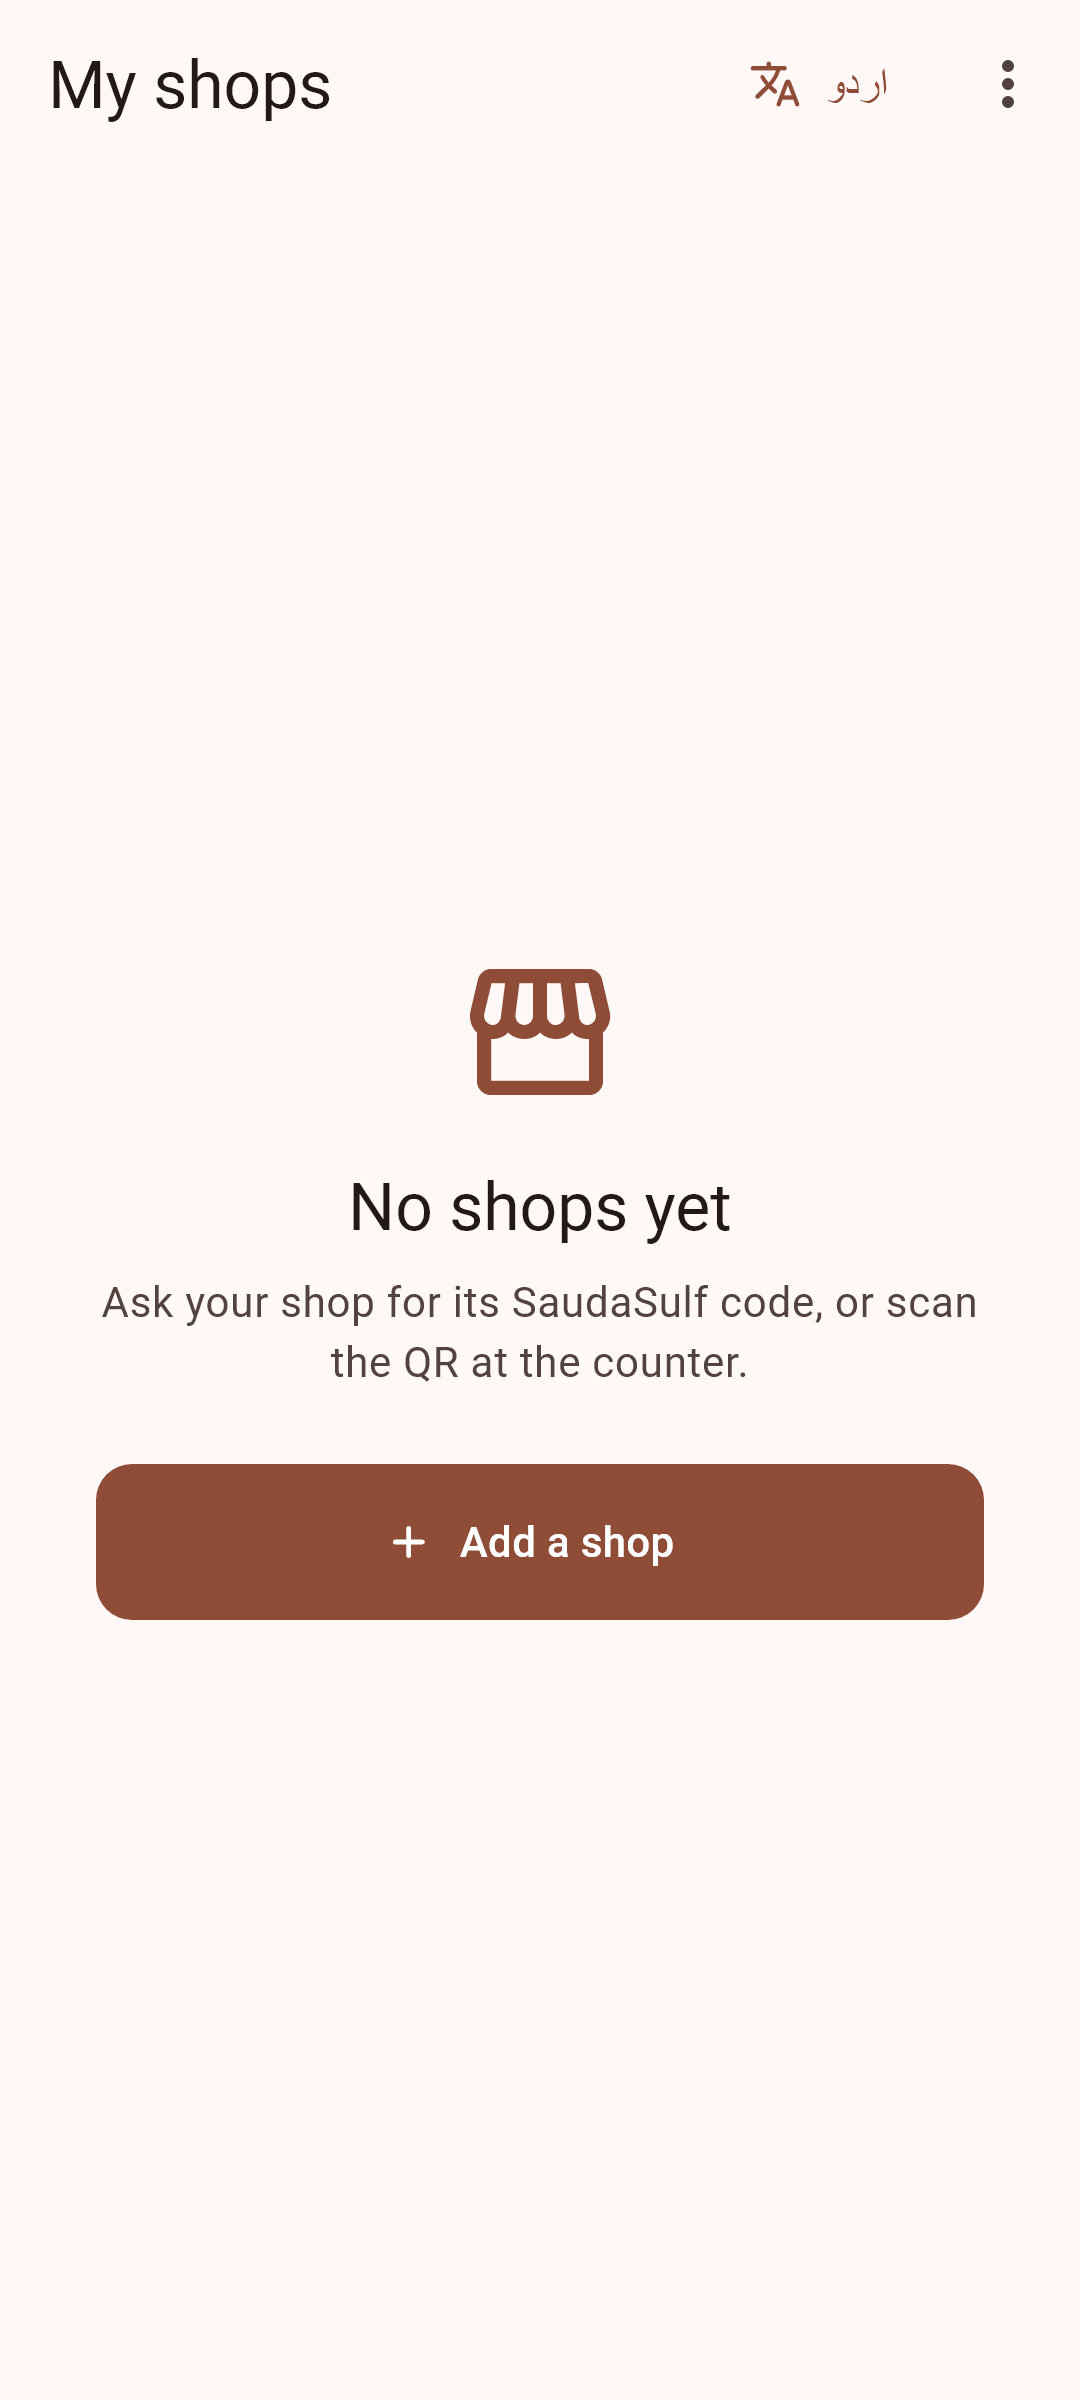
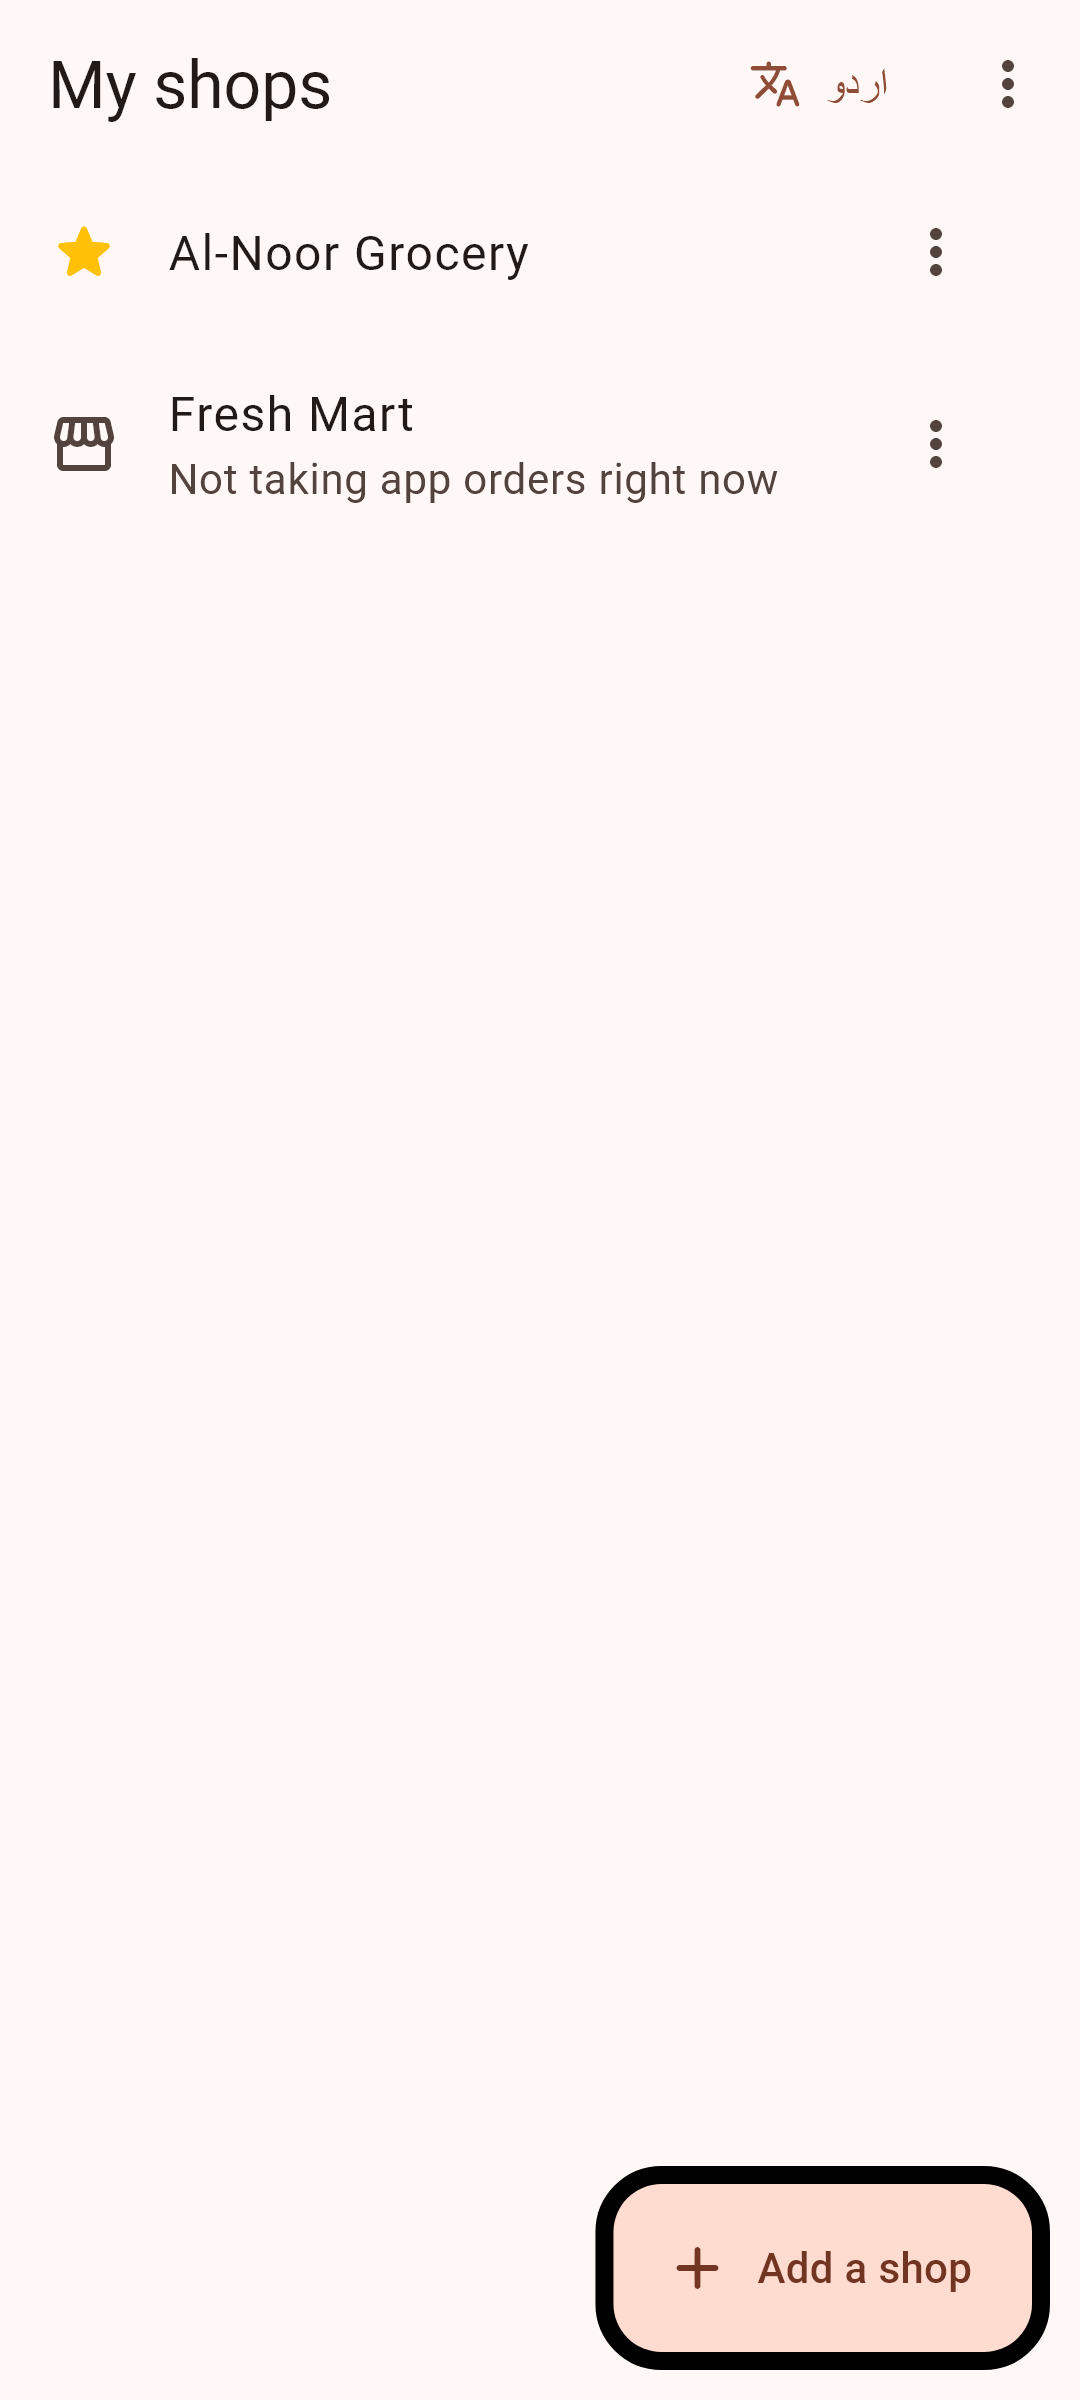
Docs: SaudaSulf sign-up, shop code & QR and app customers screens; status update

diff --git a/site/data/screens/saudasulf-app-customers.js b/site/data/screens/saudasulf-app-customers.js
@@ -1,0 +1,76 @@
+// Generated by G:\saudasulf\tool\docs_capture\capture_test.dart — re-run it instead of editing.
+Docs.screen({
+  "id": "saudasulf-app-customers",
+  "app": "saudasulf",
+  "section": "Shopkeeper",
+  "title": "App customers",
+  "route": "Shop · More tab → App customers",
+  "roles": [
+    "owner",
+    "staff"
+  ],
+  "summary": "People who joined through the shop's code. Call the number to check it is really them, then confirm. Until you confirm, they cannot see anything of the shop's old orders or khata.",
+  "image": "images/saudasulf/app-customers.png",
+  "width": 1080,
+  "height": 2400,
+  "marks": [
+    {
+      "id": "match",
+      "n": 1,
+      "box": [
+        78,
+        684,
+        619,
+        72
+      ],
+      "kind": "info",
+      "label": "Matches a customer",
+      "text": "This number is already one of your customers. Confirm only after you have called and it is them."
+    },
+    {
+      "id": "confirm",
+      "n": 2,
+      "box": [
+        78,
+        768,
+        924,
+        168
+      ],
+      "kind": "action",
+      "label": "Confirm",
+      "text": "It is them: they now see their own orders and khata."
+    },
+    {
+      "id": "notthis",
+      "n": 3,
+      "box": [
+        78,
+        936,
+        924,
+        168
+      ],
+      "kind": "action",
+      "label": "Not this person",
+      "text": "Someone else typed this number. They stay a new customer and see nothing of the old records."
+    },
+    {
+      "id": "block",
+      "n": 4,
+      "box": [
+        78,
+        1104,
+        204,
+        156
+      ],
+      "kind": "action",
+      "label": "Block",
+      "text": "Stops this person from using your shop in the app."
+    }
+  ],
+  "arrows": [
+    {
+      "from": "match",
+      "to": "confirm"
+    }
+  ]
+});

diff --git a/site/data/screens/saudasulf-my-shops.js b/site/data/screens/saudasulf-my-shops.js
@@ -8,32 +8,45 @@ Docs.screen({
   "roles": [
     "customer"
   ],
-  "summary": "The shops this customer added. Empty at first: a shop gives its customers a code or a QR to add it.",
+  "summary": "The shops this customer added, the default one first. A shop gives its customers a code or a QR to add it.",
   "image": "images/saudasulf/my-shops.png",
   "width": 1080,
   "height": 2400,
   "marks": [
     {
-      "id": "empty",
+      "id": "default",
       "n": 1,
       "box": [
-        342,
-        1158,
-        396,
-        96
+        42,
+        210,
+        84,
+        84
       ],
       "kind": "info",
-      "label": "No shops yet",
-      "text": "You only see shops you added yourself. There is no list of other shops."
+      "label": "Default shop",
+      "text": "The star marks the shop you order from first. Long-press or tap the three dots on another shop to make it the default or remove it."
+    },
+    {
+      "id": "shop",
+      "n": 2,
+      "box": [
+        0,
+        330,
+        1092,
+        228
+      ],
+      "kind": "info",
+      "label": "A shop",
+      "text": "Tap a shop to open it. A shop that is not taking orders yet says so."
     },
     {
       "id": "add",
-      "n": 2,
+      "n": 3,
       "box": [
-        90,
-        1458,
-        900,
-        168
+        607,
+        2178,
+        431,
+        180
       ],
       "kind": "action",
       "label": "Add a shop",
@@ -42,7 +55,7 @@ Docs.screen({
     },
     {
       "id": "menu",
-      "n": 3,
+      "n": 4,
       "box": [
         930,
         6,
@@ -56,7 +69,11 @@ Docs.screen({
   ],
   "arrows": [
     {
-      "from": "empty",
+      "from": "default",
+      "to": "shop"
+    },
+    {
+      "from": "shop",
       "to": "add"
     }
   ]

diff --git a/site/data/screens/saudasulf-onboarding.js b/site/data/screens/saudasulf-onboarding.js
@@ -1,0 +1,67 @@
+// Generated by G:\saudasulf\tool\docs_capture\capture_test.dart — re-run it instead of editing.
+Docs.screen({
+  "id": "saudasulf-onboarding",
+  "app": "saudasulf",
+  "section": "Customer",
+  "title": "Your name and phone",
+  "route": "Welcome → I want to order (first time)",
+  "roles": [
+    "customer"
+  ],
+  "summary": "Asked once, the first time. No password and no code by SMS: the shop calls this number to check it is really you.",
+  "image": "images/saudasulf/onboarding.png",
+  "width": 1080,
+  "height": 2400,
+  "marks": [
+    {
+      "id": "name",
+      "n": 1,
+      "box": [
+        66,
+        234,
+        948,
+        180
+      ],
+      "kind": "action",
+      "label": "Your name",
+      "text": "The name the shop will see."
+    },
+    {
+      "id": "phone",
+      "n": 2,
+      "box": [
+        66,
+        450,
+        948,
+        240
+      ],
+      "kind": "action",
+      "label": "Your phone number",
+      "text": "Shops call this number to confirm your orders. Write it like 0300 1234567."
+    },
+    {
+      "id": "continue",
+      "n": 3,
+      "box": [
+        66,
+        750,
+        948,
+        168
+      ],
+      "kind": "action",
+      "label": "Continue",
+      "text": "Opens My shops, where you add the shops you buy from.",
+      "go": "saudasulf-my-shops"
+    }
+  ],
+  "arrows": [
+    {
+      "from": "name",
+      "to": "phone"
+    },
+    {
+      "from": "phone",
+      "to": "continue"
+    }
+  ]
+});

diff --git a/site/data/screens/saudasulf-shop-code.js b/site/data/screens/saudasulf-shop-code.js
@@ -1,0 +1,58 @@
+// Generated by G:\saudasulf\tool\docs_capture\capture_test.dart — re-run it instead of editing.
+Docs.screen({
+  "id": "saudasulf-shop-code",
+  "app": "saudasulf",
+  "section": "Shopkeeper",
+  "title": "Shop code & QR",
+  "route": "Shop · More tab → Shop code & QR",
+  "roles": [
+    "owner",
+    "staff"
+  ],
+  "summary": "The shop's code and QR. Customers scan the QR or type the code to add your shop; Share sends the link on WhatsApp. Only the owner can make a new code.",
+  "image": "images/saudasulf/shop-code.png",
+  "width": 1080,
+  "height": 2400,
+  "marks": [
+    {
+      "id": "qr",
+      "n": 1,
+      "box": [
+        204,
+        270,
+        672,
+        672
+      ],
+      "kind": "info",
+      "label": "QR",
+      "text": "Print it for the counter or a poster. It opens the shop in the app."
+    },
+    {
+      "id": "code",
+      "n": 2,
+      "box": [
+        66,
+        1026,
+        948,
+        144
+      ],
+      "kind": "info",
+      "label": "Code",
+      "text": "The same shop, as 6 letters and numbers to type."
+    },
+    {
+      "id": "share",
+      "n": 3,
+      "box": [
+        66,
+        1410,
+        948,
+        168
+      ],
+      "kind": "action",
+      "label": "Share",
+      "text": "Sends the link and code on WhatsApp."
+    }
+  ],
+  "arrows": []
+});

diff --git a/site/data/pages/saudasulf.js b/site/data/pages/saudasulf.js
@@ -41,9 +41,10 @@ Docs.page({
 <table>
 <tr><th>Part</th><th>Status</th></tr>
 <tr><td>Welcome, shop sign-in, the shop's five tabs, language</td><td>Built (<a href="#/app/saudasulf">screens</a>)</td></tr>
-<tr><td>Customer: My shops, Add a shop by code</td><td>Screens built; adding a shop needs shop codes on our side</td></tr>
-<tr><td>SaudaSulf packages and payments on our side</td><td>Being built</td></tr>
-<tr><td>Shop codes and QR, customer accounts, catalogue, cart, orders, chat, khata in the app</td><td>Next</td></tr>
+<tr><td>SaudaSulf packages and payments on our side</td><td>Built (waiting for the database update)</td></tr>
+<tr><td>Shop code &amp; QR, customer sign-up (name + number), Add a shop, My shops</td><td>Built (<a href="#/screen/saudasulf-shop-code">shop code</a>, <a href="#/screen/saudasulf-onboarding">sign-up</a>)</td></tr>
+<tr><td>App customers: confirm, not this person, block</td><td>Built (<a href="#/screen/saudasulf-app-customers">screen</a>)</td></tr>
+<tr><td>Catalogue, cart, orders, chat, khata in the app</td><td>Next</td></tr>
 </table>
 <p class="muted">Decisions as of 16 November 2026. Source: MASTER-PLAN.md, section 3.</p>`,
 });

diff --git a/site/data/index.js b/site/data/index.js
@@ -17,7 +17,7 @@ window.DOCS_FILES = {
     /* mobile app — screenshots to be added with the marking editor */
     "mobile-today", "mobile-chats", "mobile-chat", "mobile-orders", "mobile-teach", "mobile-customers", "mobile-partner-home",
     /* SaudaSulf app — generated by saudasulf/tool/docs_capture/capture_test.dart */
-    "saudasulf-welcome", "saudasulf-my-shops", "saudasulf-add-shop", "saudasulf-shop-login", "saudasulf-shop-orders", "saudasulf-shop-more",
+    "saudasulf-welcome", "saudasulf-onboarding", "saudasulf-my-shops", "saudasulf-add-shop", "saudasulf-shop-login", "saudasulf-shop-orders", "saudasulf-shop-more", "saudasulf-shop-code", "saudasulf-app-customers",
   ],
   flows: ["go-live", "customer-message", "shop-order", "payment-proof", "handover", "booking", "quote-request", "broadcast", "partner-business"],
 };

diff --git a/site/data/screens/saudasulf-welcome.js b/site/data/screens/saudasulf-welcome.js
@@ -38,8 +38,8 @@ Docs.screen({
       ],
       "kind": "action",
       "label": "I want to order",
-      "text": "For customers. Opens My shops, where you add the shops you buy from.",
-      "go": "saudasulf-my-shops"
+      "text": "For customers. Asks for your name and phone number once, then opens My shops, where you add the shops you buy from.",
+      "go": "saudasulf-onboarding"
     },
     {
       "id": "shop",

diff --git a/site/data/screens/saudasulf-add-shop.js b/site/data/screens/saudasulf-add-shop.js
@@ -37,7 +37,7 @@ Docs.screen({
       ],
       "kind": "action",
       "label": "Add",
-      "text": "Checks the code and adds the shop to My shops. (Coming next: the shop lookup on our side.)"
+      "text": "Looks the code up and shows the shop it belongs to. Check the name, then tap Add this shop to put it in My shops."
     }
   ],
   "arrows": [

diff --git a/site/data/screens/saudasulf-shop-more.js b/site/data/screens/saudasulf-shop-more.js
@@ -32,7 +32,7 @@ Docs.screen({
       "n": 2,
       "box": [
         0,
-        378,
+        714,
         1092,
         180
       ],
@@ -45,7 +45,7 @@ Docs.screen({
       "n": 3,
       "box": [
         0,
-        594,
+        930,
         1092,
         180
       ],
